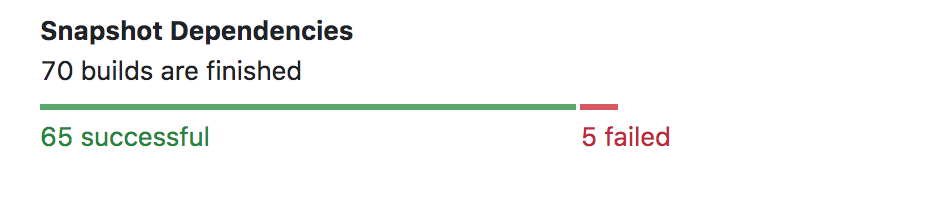
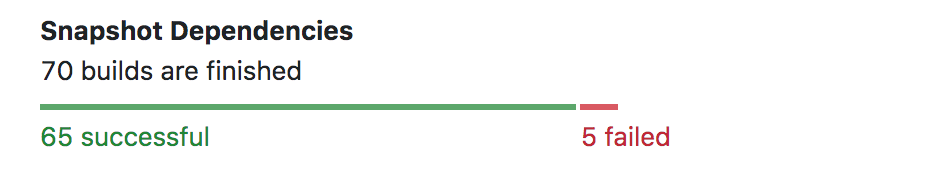
Updating status

Changed region(s): [[0.0308, 0.5172, 0.7389, 0.8621], [0.0308, 0.2874, 0.3386, 0.4598], [0.0308, 0.0862, 0.4002, 0.2586]]

diff --git a/BuildOverview.md b/BuildOverview.md
@@ -56,9 +56,10 @@ The __Expanded Build Row__ adds more details about the build:
 
 
 
-## Build Overview Page
+## Build Page
 
-For in-depth information, you can open the __Build Overview Page__.
+For in-depth information, you can open the __Build Page__. First, you will end up on
+the __Build Overview Tab__. 
 
 <img src="Images/build_overview.png">
 
@@ -100,7 +101,7 @@ In the pop-up, new features are supported:
 
 ### Snapshot Dependencies
 
-<img height="100" width="471" src="Images/build_overview_dependencies.png">  
+<img height="87" width="471" src="Images/build_overview_dependencies.png">  
 
-* An overview of the successful/failed dependencies 
+* An overview of the successful/failed dependencies :checkered_flag:  
 
